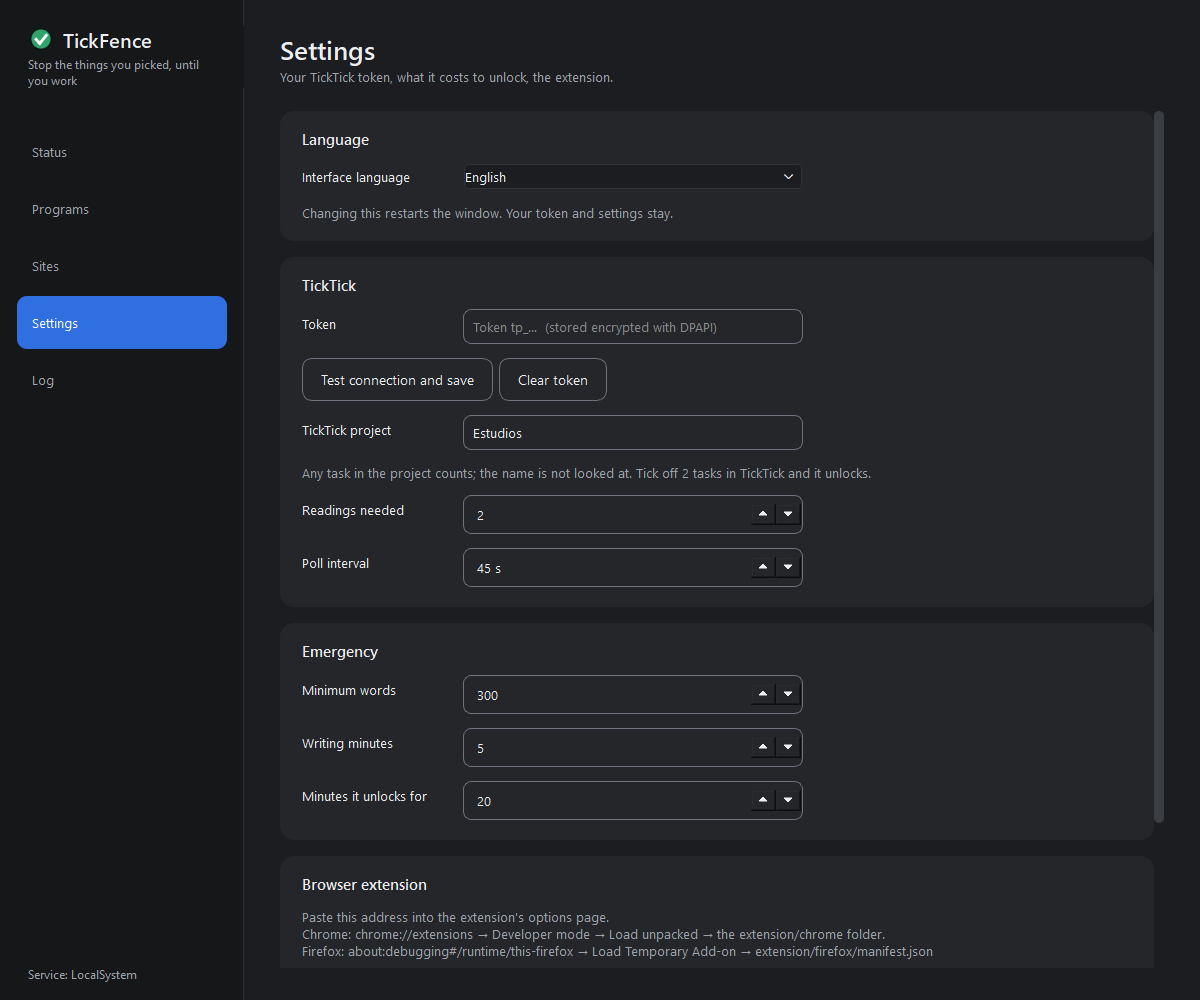
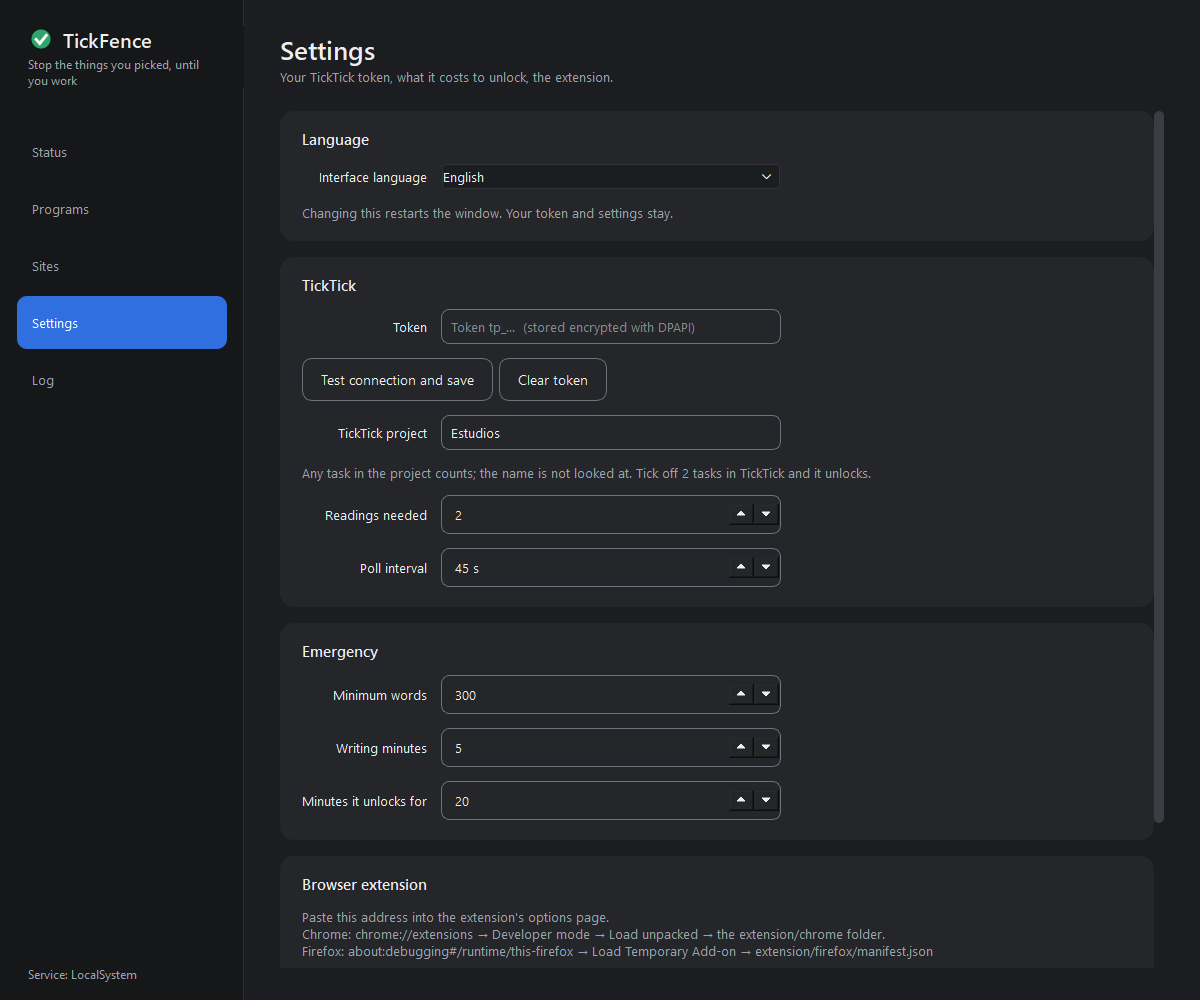
Settings: labels centred on the field, uniform gap
Two things, both measured before being changed.

**Vertical.** Every label sat 5 to 6.5 px above the middle of its field. The
cause was the size policy, not the alignment: a QLabel with the default
`Preferred` policy is only as tall as its text (19 px) inside a 32 px cell, so
`AlignVCenter` had nothing to centre within. `MinimumExpanding` makes the label
fill the cell and the alignment does what it says. Desviation is now 0.0 on all
nine rows.

**Horizontal.** The gap between the end of a label and its field went from
36 px to 257 px, because the column is as wide as the longest label and the
labels were left-aligned, so short ones had all that slack. Labels are now
right-aligned: they all end at the same x, so the gap is the same everywhere.
Column padding removed, gap 14 px, confirmed on the rendered pixels — the
field border sits at x=441 and the last text pixel is at x=425 on every row.

## The test suite could not see any of this

Two separate reasons, and both had been hiding bugs for a while.

**The GUI fixture never applied the stylesheet.** Every UI test ran against an
unstyled widget tree: different fonts, different padding, different field
heights. Without the stylesheet a field and a label are the same height, so the
6 px misalignment did not exist as far as the tests were concerned, and
`test_las_etiquetas_estan_centradas_con_su_campo` passed with the bug in place.
`QtTestCase.setUpClass` now sets `STYLE`.
[…]

diff --git a/tests/test_ui.py b/tests/test_ui.py
@@ -160,7 +160,16 @@ class QtTestCase(unittest.TestCase):
     def setUpClass(cls):
         from PySide6.QtWidgets import QApplication
 
+        from focuslock.ui.app import STYLE
+
         cls.app = QApplication.instance() or QApplication([])
+        # Sin esto los tests corren contra un arbol de widgets SIN la hoja de
+        # estilos: fuentes, rellenos y alto de campo distintos de los de la app
+        # real. Los bugs de layout que solo aparecen con la app estilada se les
+        # escapan por completo. Ya paso: el centrado vertical de las etiquetas
+        # daba OK con el bug presente, porque sin estilos el campo y la etiqueta
+        # miden lo mismo y el desvio no existe.
+        cls.app.setStyleSheet(STYLE)
 
 
 class TestMainWindow(QtTestCase):
@@ -294,6 +303,87 @@ class TestMainWindow(QtTestCase):
         QApplication.instance().processEvents()
         self.window.layout().activate()
         QApplication.instance().processEvents()
+
+    def _pares_de_ajustes(self) -> list:
+        """(etiqueta, campo) de cada fila de las cuatro tarjetas."""
+        pares = []
+        for form in self.window._forms_ajustes:
+            for fila in range(form.rowCount()):
+                li = form.itemAt(fila, QFormLayout.LabelRole)
+                fi = form.itemAt(fila, QFormLayout.FieldRole)
+                if li is None or li.widget() is None or fi is None:
+                    continue
+                etiqueta = li.widget()
+                campo = fi.widget()
+                # En una fila spanning itemAt(..., FieldRole) devuelve la
+                # etiqueta de ayuda, que no es un campo.
+                if campo is None or isinstance(campo, QLabel):
+                    continue
+                pares.append((etiqueta, campo))
+        return pares
+
+    def test_las_etiquetas_estan_centradas_con_su_campo(self):
+        """La etiqueta va a la altura del medio del campo, no arriba.
+
+        Con la politica Preferred el QLabel mide lo que mide el texto (19 px)
+        dentro de una celda de 32 px, y el texto queda 6 px por encima del
+        centro del campo. Se ve en todas las filas.
+        """
+        self._dejar_ajustes_visibles()
+        pares = self._pares_de_ajustes()
+        # Sin esta guarda, si el recorrido no encuentra filas el bucle no hace
+        # nada y el test pasa siempre. Ya paso: el test daba OK con el bug de
+        # los 6 px presente.
+        self.assertGreater(len(pares), 5, "no encontre las filas de Ajustes")
+        for etiqueta, campo in pares:
+            with self.subTest(fila=etiqueta.text()):
+                y_et = etiqueta.mapTo(self.window, etiqueta.rect().topLeft()).y()
+                y_ca = campo.mapTo(self.window, campo.rect().topLeft()).y()
+                centro_et = y_et + etiqueta.height() / 2
+                centro_ca = y_ca + campo.height() / 2
+                self.assertAlmostEqual(
+                    centro_et, centro_ca, delta=1.0,
+                    msg=f'"{etiqueta.text()}" no esta centrada con su campo',
+                )
+
+    def test_las_etiquetas_terminan_en_el_mismo_x(self):
+        """Con las etiquetas a la derecha, todas terminan en el mismo x.
+
+        Es lo que hace que la separacion con el campo sea igual en cada fila. A
+        la izquierda quedaba un borde prolijo pero la distancia variaba de 36 a
+        257 px, que es lo que mas se notaba.
+        """
+        self._dejar_ajustes_visibles()
+        from PySide6.QtCore import Qt
+
+        pares = self._pares_de_ajustes()
+        self.assertGreater(len(pares), 5, "no encontre las filas de Ajustes")
+        for etiqueta, _ in pares:
+            with self.subTest(fila=etiqueta.text()):
+                self.assertTrue(
+                    etiqueta.alignment() & Qt.AlignRight,
+                    f'"{etiqueta.text()}" no esta alineada a la derecha',
+                )
+
+    def test_todas_las_etiquetas_miden_lo_mismo(self):
+        """Es lo que hace que la separacion con el campo sea igual en cada fila.
+
+        Las etiquetas van alineadas a la derecha: si todas tienen el mismo
+        ancho, el texto de todas termina en el mismo x, y como los campos
+        arrancan todos en el mismo, la distancia es identica. Medir la
+        separacion desde el borde del widget no probaba nada: el layout siempre
+        deja ese borde pegado al campo, diga lo que diga el texto.
+        """
+        self._dejar_ajustes_visibles()
+        anchos = {
+            etiqueta.text(): etiqueta.width()
+            for etiqueta, _ in self._pares_de_ajustes()
+        }
+        self.assertGreater(len(anchos), 5, "no encontre las filas de Ajustes")
+        self.assertEqual(
+            1, len(set(anchos.values())),
+            f"las etiquetas no comparten el mismo ancho: {anchos}",
+        )
 
     def test_nav_and_stack_stay_in_sync(self):
         """Cada fila del menu tiene que mostrar su pagina."""

diff --git a/focuslock/ui/app.py b/focuslock/ui/app.py
@@ -34,7 +34,7 @@ from PySide6.QtWidgets import (
     QProgressBar,
     QPushButton,
     QScrollArea,
-    QFormLayout,
+    QSizePolicy,
     QSpinBox,
     QSplitter,
     QStackedWidget,
@@ -656,9 +656,10 @@ class MainWindow(QMainWindow):
         }
 
     # ----------------------------------------------------------------- Ajustes
-    #: Separacion entre la columna de etiquetas y el campo. Es un riel: todo lo
-    #: que va en la columna de campos arranca a esta distancia de la etiqueta.
-    GAP_ETIQUETA = 18
+    #: Separacion entre el fin del texto de la etiqueta y el borde del campo.
+    #: Con las etiquetas a la derecha TODAS terminan en el mismo x, asi que esta
+    #: distancia es la misma en cada fila: no hace falta rellenar la columna.
+    GAP_ETIQUETA = 14
     #: Ancho de los campos editables. Sin tope, QFormLayout los estira a lo que
     #: sobra de la tarjeta y un spinbox de "45 s" queda de 1400 px de ancho.
     ANCHO_CAMPO = 340
@@ -724,16 +725,28 @@ class MainWindow(QMainWindow):
             )
         if ancho_texto <= 0:
             return
-        ancho_columna = ancho_texto + self.GAP_ETIQUETA
+        # Sin relleno extra. La etiqueta va alineada a la derecha, asi que
+        # todas terminan en el mismo x y la separacion la da el
+        # horizontalSpacing del form, no el ancho de la columna.
+        ancho_columna = ancho_texto
 
         for form in forms:
             for widget in self._etiquetas_de_columna(form):
                 widget.setFixedWidth(ancho_columna)
                 widget.setWordWrap(False)
-                # A la izquierda: alineadas a la derecha el borde izquierdo
-                # quedaba irregular, y "Token" a 60 px de "Minutes it unlocks
-                # for" se lee como desorden.
-                widget.setAlignment(Qt.AlignLeft | Qt.AlignVCenter)
+                # Que se estire a toda la altura de la celda. Con la politica
+                # Preferred el QLabel mide lo que mide el texto (19 px) dentro
+                # de una celda de 32 px, y el texto queda 6 px por encima del
+                # centro del campo. estirandolo, el alignment de abajo lo
+                # centra de verdad.
+                widget.setSizePolicy(
+                    QSizePolicy.Preferred, QSizePolicy.MinimumExpanding
+                )
+                # A la derecha: asi todas las etiquetas terminan en el mismo
+                # x y la separacion con el campo es igual en cada fila. A la
+                # izquierda quedaba un borde prolijo pero la distancia
+                # variaba de 36 a 257 px, que es lo que mas se notaba.
+                widget.setAlignment(Qt.AlignRight | Qt.AlignVCenter)
             for fila in range(form.rowCount()):
                 item = form.itemAt(fila, QFormLayout.FieldRole)
                 campo = item.widget() if item is not None else None

diff --git a/README.md b/README.md
@@ -15,7 +15,7 @@ You decide how hard the emergency exit is to push.
 ![platform](https://img.shields.io/badge/platform-Windows%2010%20%2F%2011-0078D6?logo=windows&logoColor=white)
 ![python](https://img.shields.io/badge/python-3.11%2B-3776AB?logo=python&logoColor=white)
 ![gui](https://img.shields.io/badge/GUI-PySide6-2D8BC0)
-![tests](https://img.shields.io/badge/tests-271%20passing-16A34A)
+![tests](https://img.shields.io/badge/tests-274%20passing-16A34A)
 ![ci](https://github.com/zxkodas/TickFence/actions/workflows/tests.yml/badge.svg)
 ![chrome](https://img.shields.io/badge/Chrome%20%2F%20Edge%20%2F%20Brave-MV3-4285F4?logo=googlechrome&logoColor=white)
 ![firefox](https://img.shields.io/badge/Firefox-MV3-FF7139F?logo=firefoxbrowser&logoColor=white)
